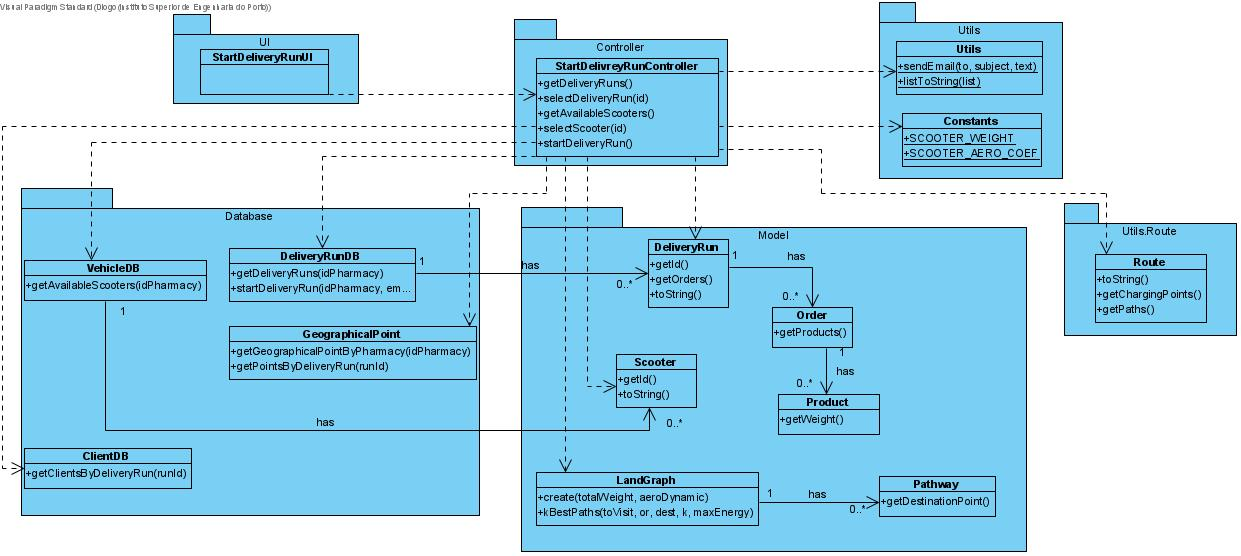
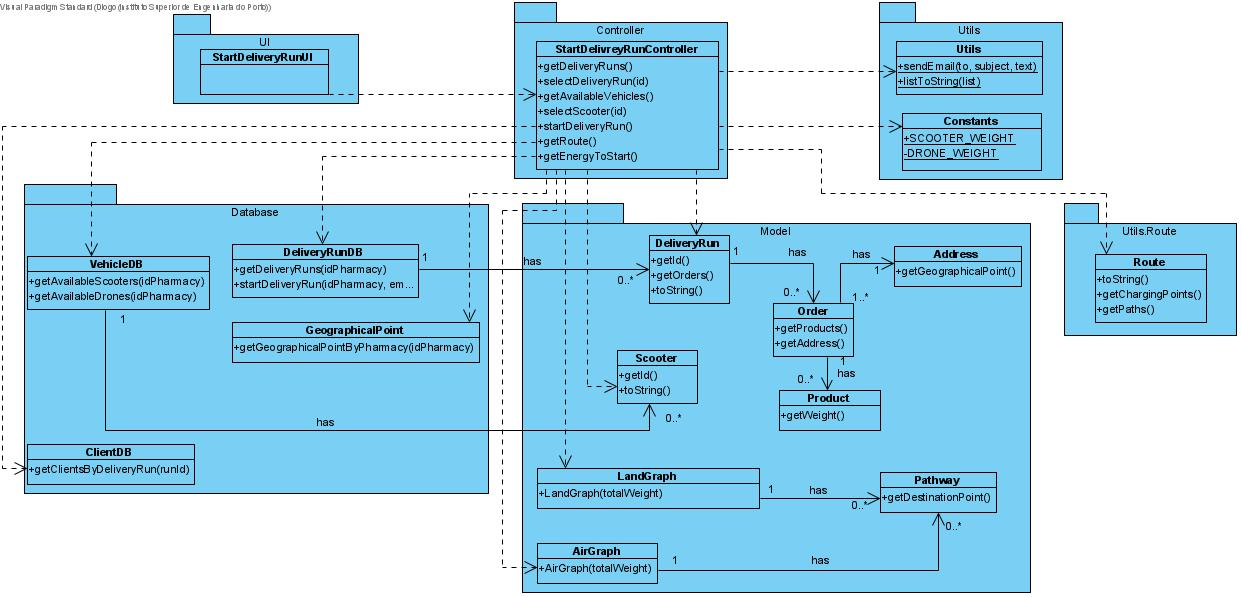
MEN09-305 #close User Interface [Text Files]

diff --git a/src/main/java/lapr/project/ui/text/TextFiles.java b/src/main/java/lapr/project/ui/text/TextFiles.java
@@ -64,30 +64,35 @@ public class TextFiles {
      */
     public static void main(String[] args) {
 
-     
+     int i = 0;
+     for(String s : importFile("textFiles/LAPR_Scenario4/pharmacies.csv")){
+         System.out.println(s.split(";").length);
+         i++;
+     }
+     System.out.println(i);
  
 
-        try{
-            System.out.println("Clearing old data...");
-            DataHandler dh = new DataHandler();
-            dh.scriptRunner("textFiles/clear.sql");
-            System.out.println("Old data cleared.");
-        } catch (IOException ex) {
-            ex.printStackTrace();
-        } catch (SQLException ex) {
-            ex.printStackTrace();
-        }
-
-        System.out.println("Adding products...");
-        System.out.printf("%d products were added. %n", insertProducts());
-        System.out.println("Adding pharmacies...");
-        System.out.printf("%d pharmacies were added. %n", insertPharmacies());
-        System.out.println("Adding clients...");
-        System.out.printf("%d clients were added. %n", insertClients());
-        System.out.println("Adding couriers...");
-        System.out.printf("%d couriers were added. %n", insertCouriers());
-        System.out.println("Adding vehicles...");
-        System.out.printf("%d vehicles were added. %n", insertVehicles());
+//        try{
+//            System.out.println("Clearing old data...");
+//            DataHandler dh = new DataHandler();
+//            dh.scriptRunner("textFiles/clear.sql");
+//            System.out.println("Old data cleared.");
+//        } catch (IOException ex) {
+//            ex.printStackTrace();
+//        } catch (SQLException ex) {
+//            ex.printStackTrace();
+//        }
+//
+//        System.out.println("Adding products...");
+//        System.out.printf("%d products were added. %n", insertProducts());
+//        System.out.println("Adding pharmacies...");
+//        System.out.printf("%d pharmacies were added. %n", insertPharmacies());
+//        System.out.println("Adding clients...");
+//        System.out.printf("%d clients were added. %n", insertClients());
+//        System.out.println("Adding couriers...");
+//        System.out.printf("%d couriers were added. %n", insertCouriers());
+//        System.out.println("Adding vehicles...");
+//        System.out.printf("%d vehicles were added. %n", insertVehicles());
         //menu();
     }
 

diff --git a/src/main/java/lapr/project/utils/route/Route.java b/src/main/java/lapr/project/utils/route/Route.java
@@ -54,6 +54,9 @@ public class Route implements Comparable<Route>{
     
     
     private List<GeographicalPoint> stopPoints;
+    
+    
+    private List<GeographicalPoint> chargingPoints;
 
     /**
      * Constructs a route that is a copy of another route.
@@ -69,6 +72,7 @@ public class Route implements Comparable<Route>{
         this.energyToReachChargingPoint = otherRoute.energyToReachChargingPoint;
         this.minimumEnergy = otherRoute.minimumEnergy;
         this.stopPoints = otherRoute.stopPoints;
+        this.chargingPoints = otherRoute.chargingPoints;
     }
 
     /**
@@ -97,6 +101,7 @@ public class Route implements Comparable<Route>{
         energyToReachChargingPoint = totalEnergy;
         minimumEnergy = totalEnergy;
         stopPoints = new LinkedList<>();
+        chargingPoints = new LinkedList<>();
     }
 
     /**
@@ -166,9 +171,11 @@ public class Route implements Comparable<Route>{
         return paths.size() + 1;
     }
 
-    public List<GeographicalPoint> getStopPoints() {
-        return new LinkedList<>(stopPoints);
+    public List<GeographicalPoint> getChargingPoints() {
+        return new LinkedList<>(chargingPoints);
     }
+
+    
     
     public boolean addStopPoint(GeographicalPoint stop){
         for(Pathway p : paths){
@@ -248,7 +255,7 @@ public class Route implements Comparable<Route>{
         }
         if(edge.getDestinationPoint().getDescription().contains(Constants.CHARGING_SPOT)){
             energyToReachChargingPoint = 0;
-            stopPoints.add(edge.getDestinationPoint());
+            chargingPoints.add(edge.getDestinationPoint());
          }
     }
 

diff --git a/src/main/java/lapr/project/data/ClientDB.java b/src/main/java/lapr/project/data/ClientDB.java
@@ -75,7 +75,7 @@ public class ClientDB extends DataHandler {
                 callStmt.setString(13,c.getAddress().getCity());
                 callStmt.setInt(14,c.getAddress().getPortNumber());
                 callStmt.setString(15,c.getAddress().getZipCode());
-                callStmt.setString(16, "Client - " +c.getAddress().getGeographicalPoint().getDescription());
+                callStmt.setString(16,c.getAddress().getGeographicalPoint().getDescription());
 
 
             callStmt.execute();

diff --git a/src/main/java/lapr/project/controller/StartDeliveryRunController.java b/src/main/java/lapr/project/controller/StartDeliveryRunController.java
@@ -184,8 +184,8 @@ public class StartDeliveryRunController {
     }
     
     public double getEnergyToStart(){
-        if(r!= null && !r.getStopPoints().isEmpty()){
-            GeographicalPoint chargingStation = r.getStopPoints().get(0);
+        if(r!= null && !r.getChargingPoints().isEmpty()){
+            GeographicalPoint chargingStation = r.getChargingPoints().get(0);
             double energy = 0;
             for(Pathway p : r.getPaths()){
                 energy = energy + p.getCost();
